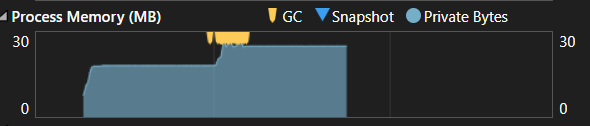
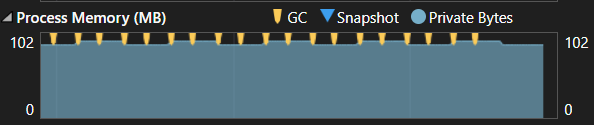
refactor: updated removing object reference from list

diff --git a/src/MemoryHandler/MemoryManager.cs b/src/MemoryHandler/MemoryManager.cs
@@ -5,27 +5,28 @@
     /// </summary>
     internal class MemoryManager
     {
-        private readonly int _max;
+        private const int _maxItems = 100;
+        private readonly List<int[]> _memory = new ();
 
         /// <summary>
-        /// Initializes a new instance of the <see cref="MemoryManager"/> class.
-        /// </summary>
-        /// <param name="maxData">Maximum Limit to be stored in the list.</param>
-        public MemoryManager(int maxData)
-        {
-            this._max = maxData;
-        }
-
-        /// <summary>
-        /// Adds on memory and adds it to a list.
+        /// Adds memory while maintaining a fixed maximum
+        /// number of retained arrays.
         /// </summary>
         public void AddMemory()
         {
-            for (int i = 1; i < this._max; i++)
+            while (true)
             {
-                int[] newArray = new int[100000];
-                Console.WriteLine($"Current Memory Usage: {GC.GetAllocatedBytesForCurrentThread() / 1024 / 1024}Mb");
-                Thread.Sleep(10);
+                if (this._memory.Count >= _maxItems)
+                {
+                    this._memory.RemoveAt(0);
+                }
+
+                this._memory.Add(new int[100000]);
+
+                Console.WriteLine(
+                    $"Arrays retained: {this._memory.Count}");
+
+                Thread.Sleep(5);
             }
         }
     }

diff --git a/src/MemoryHandler/Program.cs b/src/MemoryHandler/Program.cs
@@ -8,7 +8,7 @@
         private static void Main(string[] args)
         {
             ExplodeMemory explodeMemory = new ExplodeMemory();
-            MemoryManager memoryManager = new MemoryManager(100);
+            MemoryManager memoryManager = new MemoryManager();
             MemoryHandler memoryHandler = new MemoryHandler(explodeMemory, memoryManager);
             memoryHandler.ExecuteMemoryOperations();
         }
